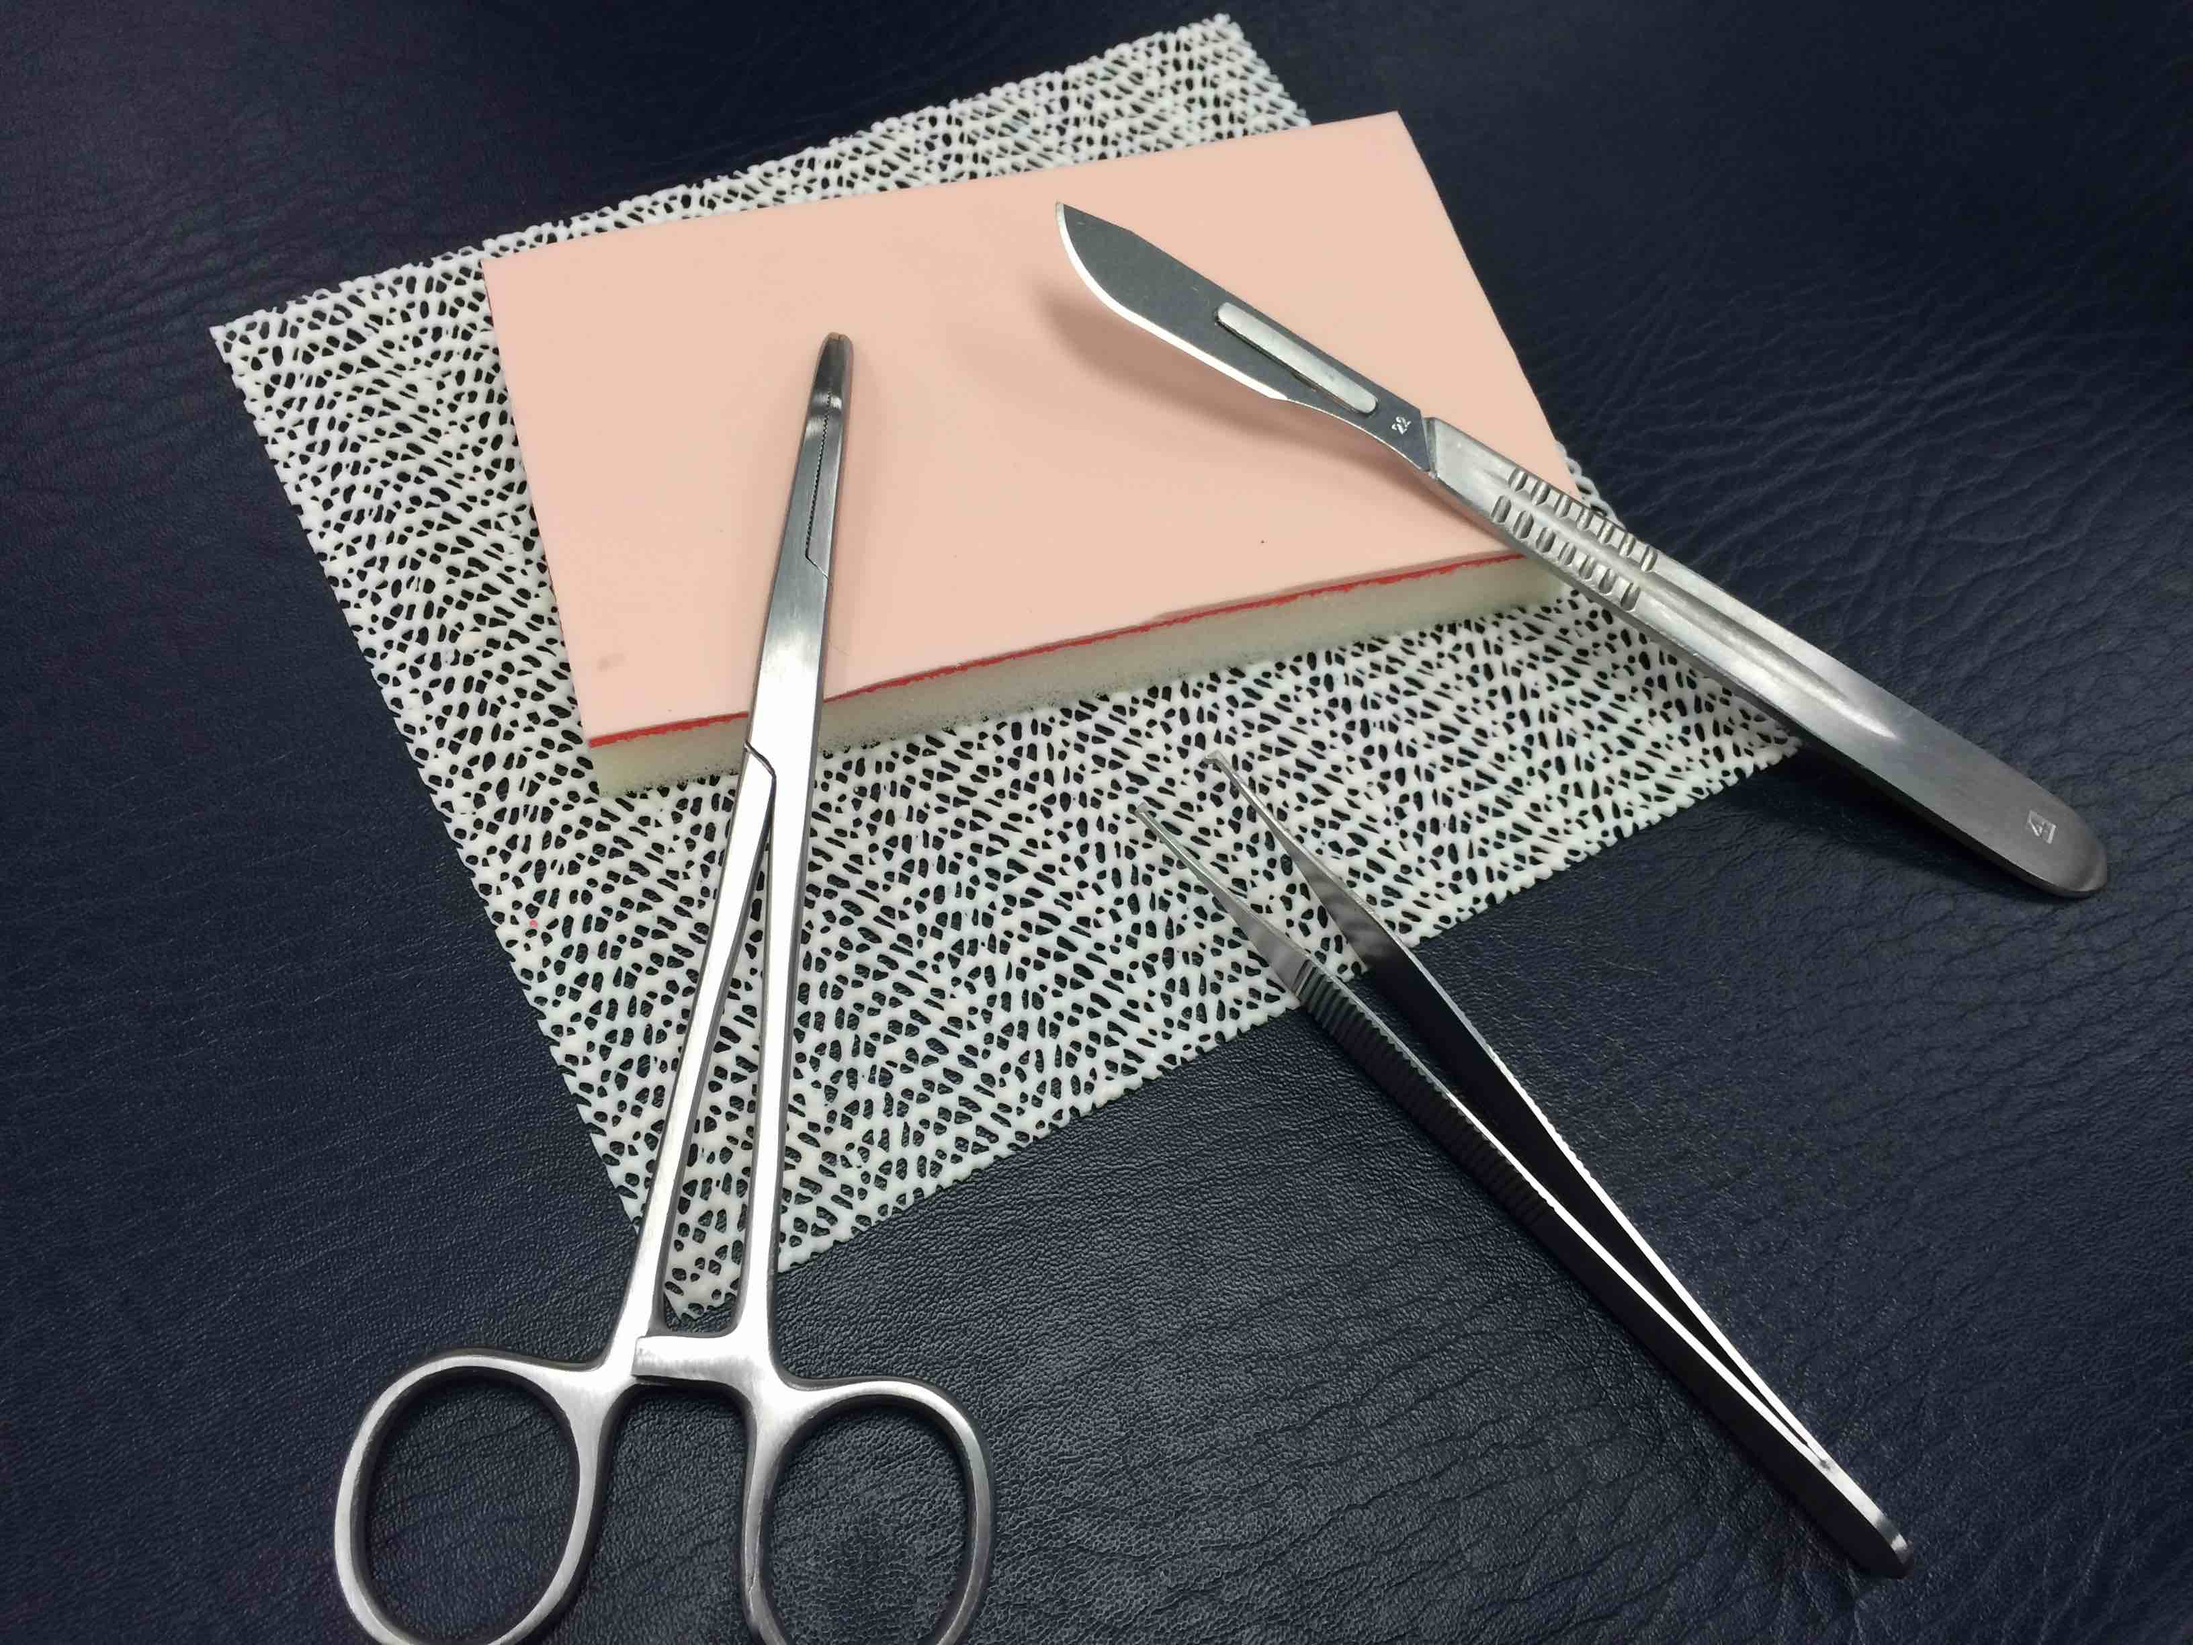
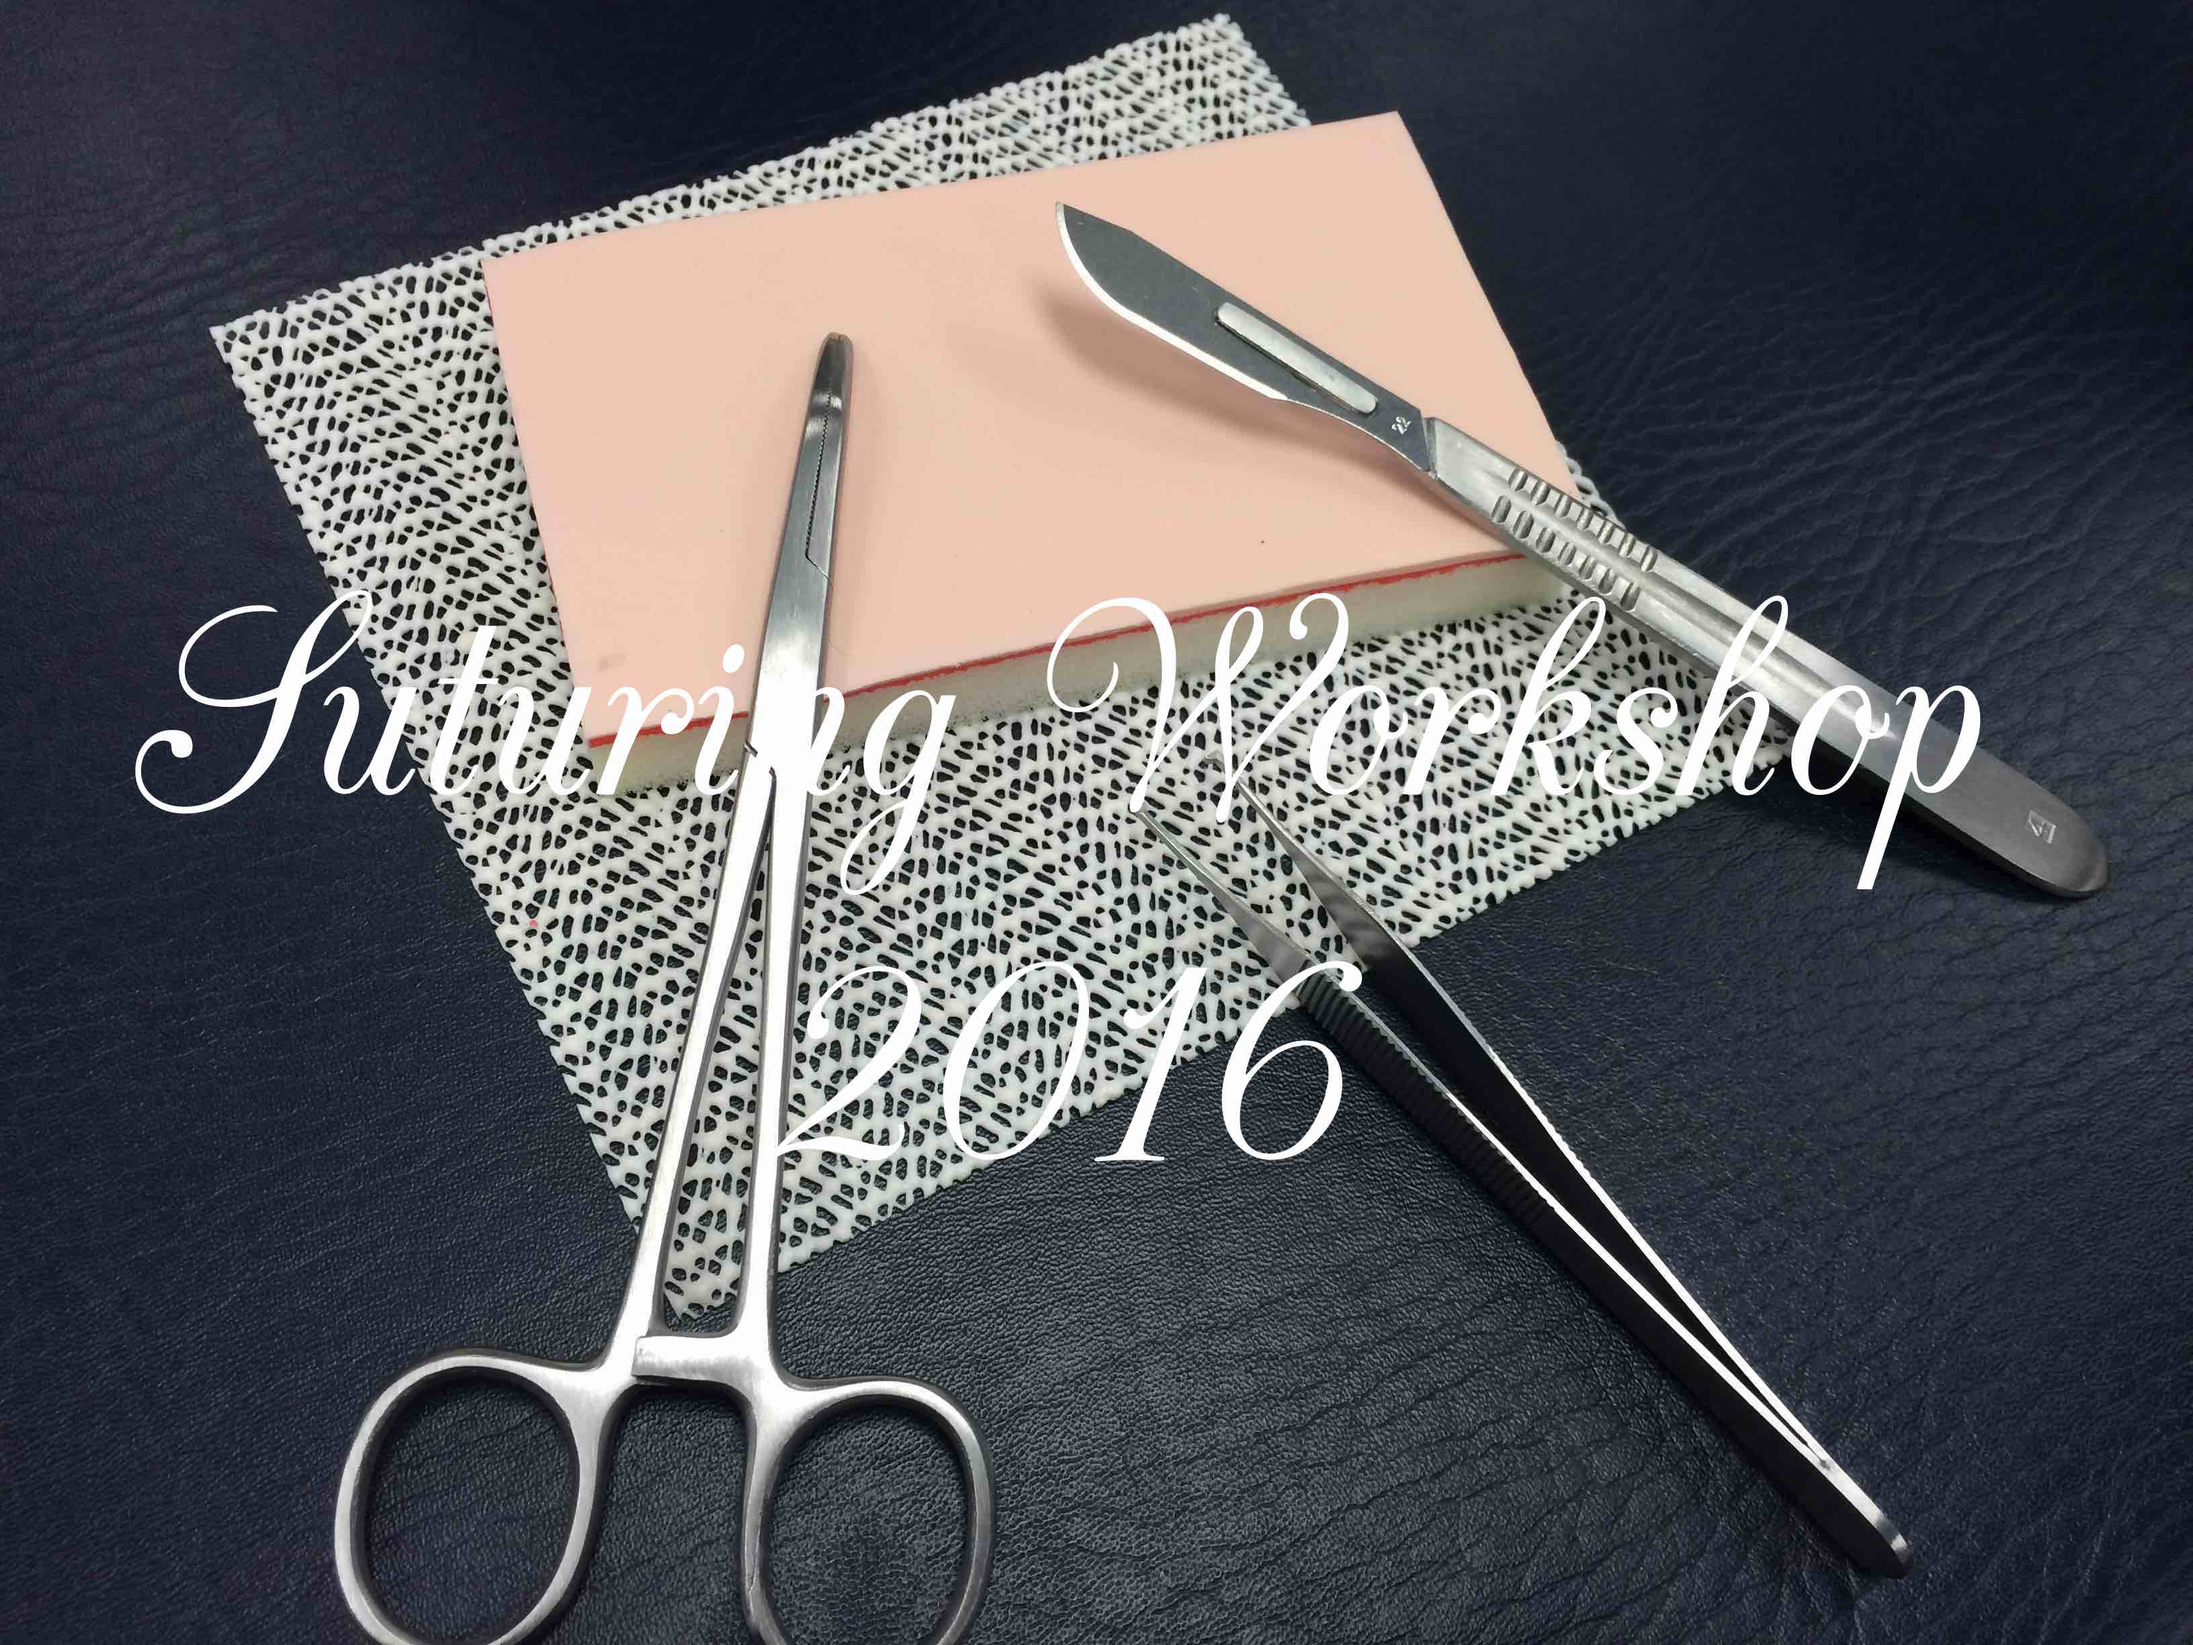
sut 5.3

diff --git a/_posts/2016-2-22-Suturing-Workshop-16.html b/_posts/2016-2-22-Suturing-Workshop-16.html
@@ -1,6 +1,6 @@
 ---
 layout: ion_page
-title: Suturing Workshops 2016
+title:
 permalink: /suturing1516/
 feature-img: /Suturing2016.jpg
 categories: event, news
